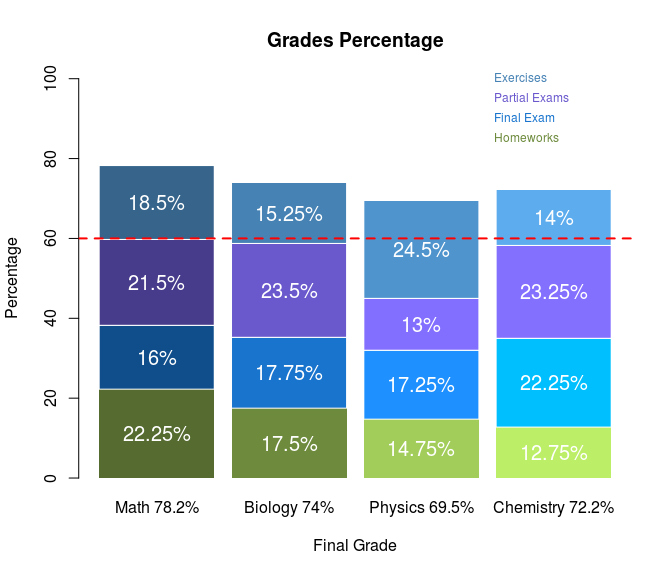
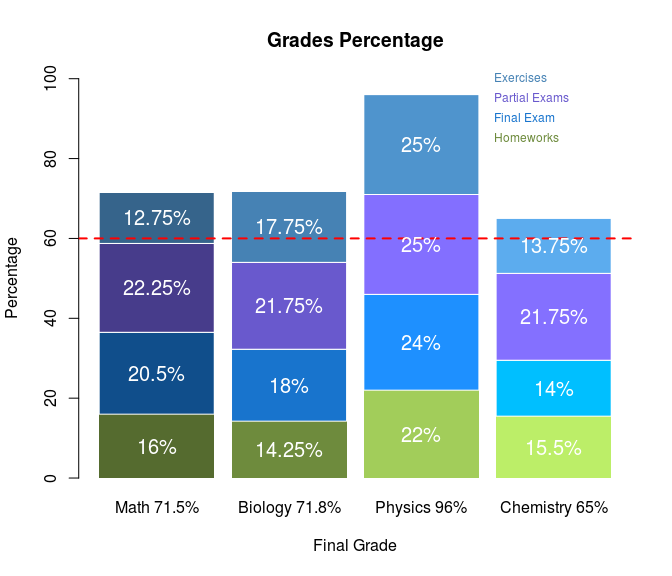
stacked plot

diff --git a/R-stacked_barplot/README.md b/R-stacked_barplot/README.md
@@ -40,7 +40,7 @@ barplot(groups[1,],                            # Input data as vector
         col = c("darkorange","firebrick1","mediumpurple1","skyblue")   # Box colors
         )
 
-# Seconth Stacked Barplot
+# second Stacked Barplot
 barplot(groups[2,], 
         offset=groups[1,],  # Offset of the new barplot
         add=T,              # add plot
@@ -51,7 +51,7 @@ barplot(groups[2,],
         space=0)
 # Third Stacked Barplot
 barplot(groups[3,], 
-        offset=groups[1,]+groups[2,], # The third stack will begin over the first+ seconth stack
+        offset=groups[1,]+groups[2,], # The third stack will begin over the first+ second stack
         add=T, axes=F, axisnames=F,
         border="gray80",col=c("darkorange4","firebrick4","mediumpurple4","skyblue4"), space=0)
 
@@ -87,10 +87,10 @@ kable(grades)
 
 |               |  Math|  Biology|  Physics|  Chemistry|
 |---------------|-----:|--------:|--------:|----------:|
-| Homeworks     |    89|       70|       59|         51|
-| Final Exam    |    64|       71|       69|         89|
-| Partial Exams |    86|       94|       52|         93|
-| Exercises     |    74|       61|       98|         56|
+| Homeworks     |    64|       57|       88|         62|
+| Final Exam    |    82|       72|       96|         56|
+| Partial Exams |    89|       87|      100|         87|
+| Exercises     |    51|       71|      100|         55|
 
 ### Grades Percentage
 
@@ -106,10 +106,10 @@ kable(grades.per)
 
 |               |   Math|  Biology|  Physics|  Chemistry|
 |---------------|------:|--------:|--------:|----------:|
-| Homeworks     |  22.25|    17.50|    14.75|      12.75|
-| Final Exam    |  16.00|    17.75|    17.25|      22.25|
-| Partial Exams |  21.50|    23.50|    13.00|      23.25|
-| Exercises     |  18.50|    15.25|    24.50|      14.00|
+| Homeworks     |  16.00|    14.25|       22|      15.50|
+| Final Exam    |  20.50|    18.00|       24|      14.00|
+| Partial Exams |  22.25|    21.75|       25|      21.75|
+| Exercises     |  12.75|    17.75|       25|      13.75|
 
 ### Grades Stacked Barplots
 
@@ -168,3 +168,5 @@ text(labels=rownames(grades.per), col=color.matrix[,2], x=rep(3.5,4), y=c(85,90,
 ```
 
 ![](stacked_plot_files/figure-markdown_github/unnamed-chunk-5-1.png)
+
+It is possible to generalize `stack.plot` to create your stacked plots no with only one function, need of ggplots.
